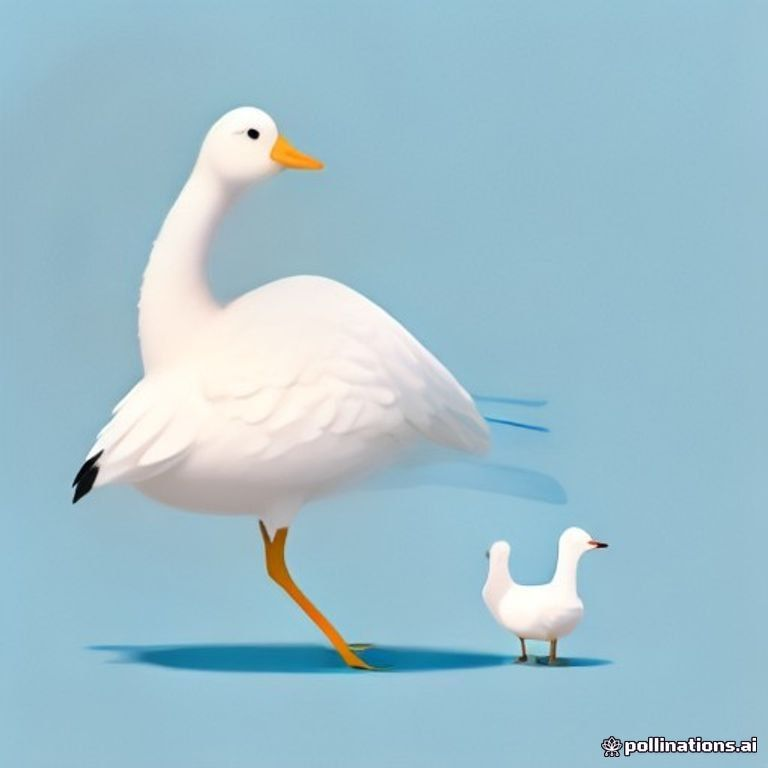
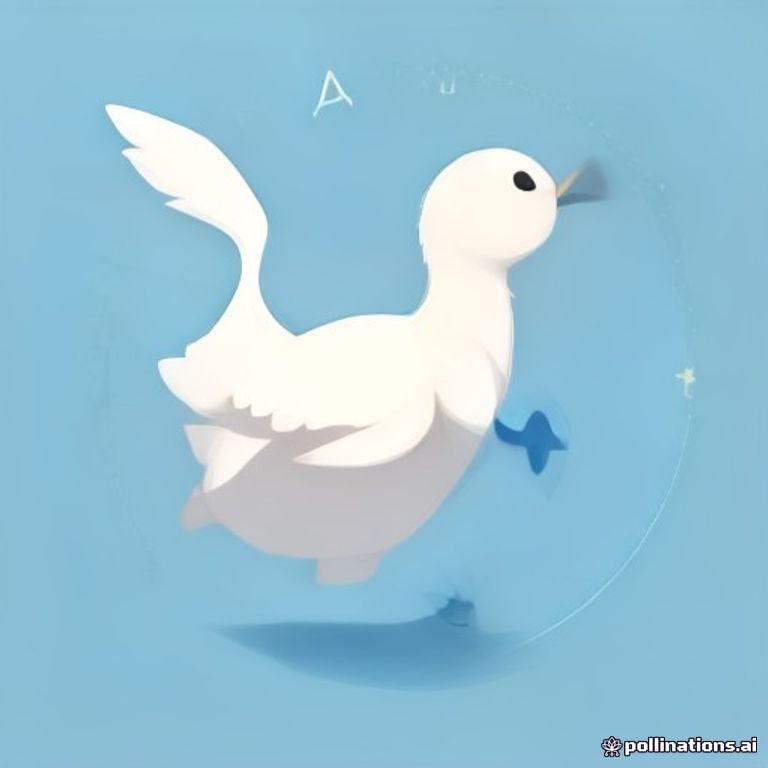
améloration depart et palais

Changed region(s): [[0.0938, 0.125, 0.8125, 0.9062], [0.4062, 0.0938, 0.4688, 0.1562], [0.875, 0.4688, 0.9062, 0.5]]

diff --git a/styles.css b/styles.css
@@ -31,14 +31,10 @@
 .cell.prime-stop circle{animation:prime-stop-pulse-stable .6s ease-in-out 3;transform:none!important;transform-box:initial;filter:drop-shadow(0 0 8px #ffb300)}
 @keyframes prime-stop-pulse-stable{0%,100%{stroke:#fff4a3;stroke-width:5;filter:drop-shadow(0 0 5px #ffb300)}50%{stroke:#fff;stroke-width:9;filter:drop-shadow(0 0 18px #ffb300)}}
 .start-decoration .start-halo{opacity:.5;animation:start-halo-pulse 2.6s ease-in-out infinite}
-.start-decoration .start-ring{transform-box:fill-box;transform-origin:center;animation:start-ring-spin 16s linear infinite}
 @keyframes start-halo-pulse{50%{opacity:.85}}
-@keyframes start-ring-spin{to{transform:rotate(360deg)}}
-.palace .palace-ring{transform-box:fill-box;transform-origin:center;animation:palace-ring-spin 26s linear infinite}
 .start-decoration .start-portrait{transform-box:fill-box;transform-origin:center;animation:start-portrait-bob 2.4s ease-in-out infinite}
 @keyframes start-portrait-bob{0%,100%{transform:translateY(0) rotate(0deg)}50%{transform:translateY(-2.5px) rotate(2.5deg)}}
 .palace .palace-portrait{transform-box:fill-box;transform-origin:center;animation:palace-portrait-float 4.5s ease-in-out infinite}
 @keyframes palace-portrait-float{0%,100%{transform:translateY(0)}50%{transform:translateY(-5px)}}
 .palace .palace-glow{animation:palace-glow-pulse 4s ease-in-out infinite}
 @keyframes palace-glow-pulse{0%,100%{opacity:.15}50%{opacity:.4}}
-@keyframes palace-ring-spin{to{transform:rotate(360deg)}}

diff --git a/js/view.js b/js/view.js
@@ -61,7 +61,6 @@ export function renderBoard(state) {
   board.appendChild(svg("polyline", { points: path, fill: "none", stroke: "#fff0bd", "stroke-width": 43, "stroke-linecap": "round", "stroke-linejoin": "round" }));
   const finish = svg("g", { class: "palace" });
   finish.appendChild(svg("circle", { class: "palace-glow", cx: 450, cy: 450, r: 94, fill: "#f6c95d" }));
-  finish.appendChild(svg("circle", { class: "palace-ring", cx: 450, cy: 450, r: 88, fill: "none", stroke: "#d18a27", "stroke-width": 3, "stroke-dasharray": "10 12" }));
   finish.appendChild(svg("circle", { cx: 450, cy: 450, r: 76, fill: "#fff8e8", stroke: "#9c612e", "stroke-width": 5 }));
   const palaceDefs = svg("defs");
   const palaceClip = svg("clipPath", { id: "palace-clip" });
@@ -93,7 +92,6 @@ export function renderBoard(state) {
   const start = points[0];
   const startDecoration = svg("g", { class: "start-decoration" });
   startDecoration.appendChild(svg("circle", { class: "start-halo", cx: start.x, cy: start.y, r: 32, fill: "#9fd0f0" }));
-  startDecoration.appendChild(svg("circle", { class: "start-ring", cx: start.x, cy: start.y, r: 28.5, fill: "none", stroke: "#1c5f92", "stroke-width": 2.5, "stroke-dasharray": "6 7" }));
   startDecoration.appendChild(svg("circle", { cx: start.x, cy: start.y, r: 23.5, fill: "#5fa8dc", stroke: "#215b86", "stroke-width": 4 }));
   const startDefs = svg("defs");
   const startClip = svg("clipPath", { id: "start-clip" });
